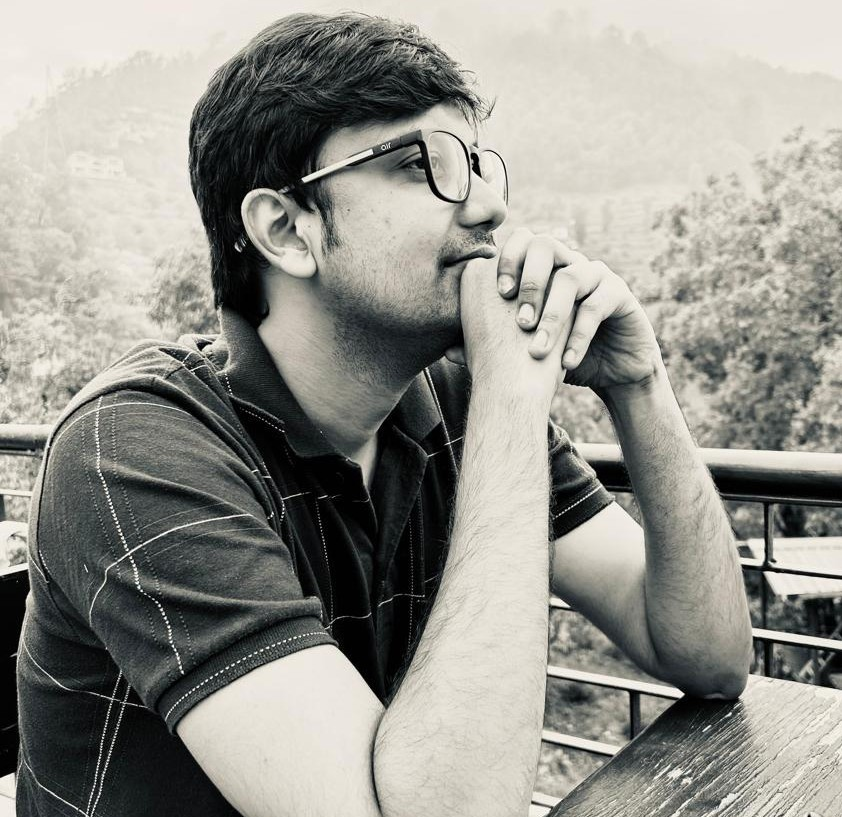
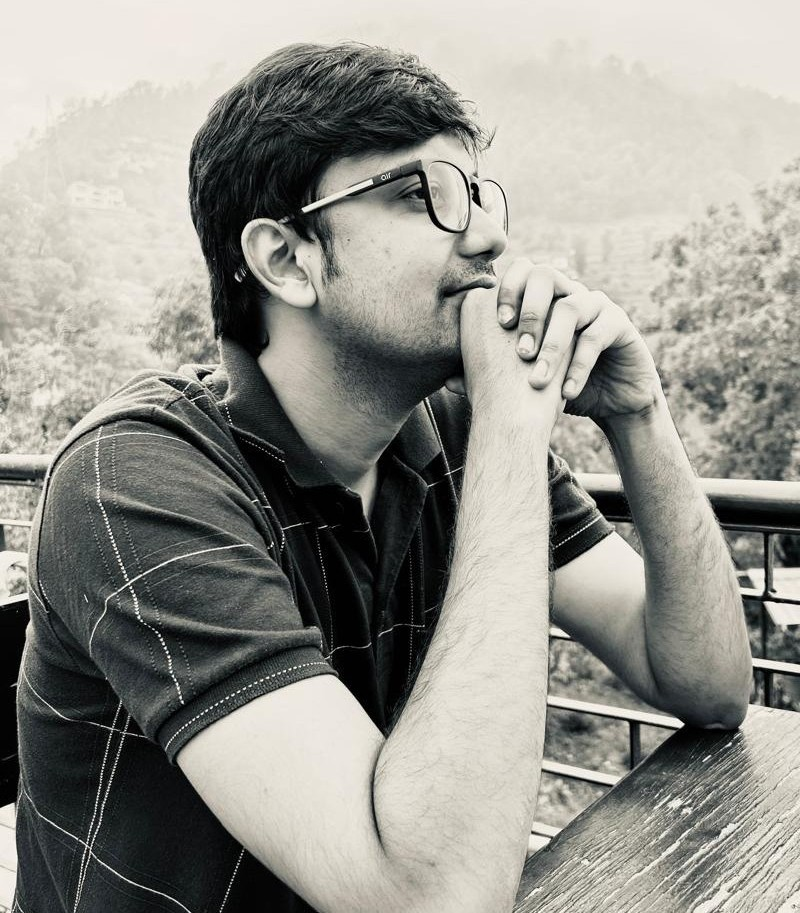
add

diff --git a/src/pages/People.jsx b/src/pages/People.jsx
@@ -57,11 +57,11 @@ const ArticleCard = ({ image, title, position, description }) => (
     <img
       src={image}
       alt={title}
-      className="w-full h-[450px] object-cover object-top transition-all duration-500 group-hover:scale-110"
+      className="w-full h-[450px] object-cover object-top transition-all duration-500 group-hover:scale-100 sm:group-hover:scale-110"
     />
 
     {/* Overlay */}
-    <div className="absolute inset-0 bg-gradient-to-t from-black/70 via-black/30 to-transparent transition-opacity duration-300 group-hover:bg-black/50"></div>
+    <div className="absolute inset-0 bg-gradient-to-t from-black/70 via-black/30 to-transparent transition-opacity duration-300 sm:group-hover:bg-black/50"></div>
 
     {/* Content */}
     <div className="absolute bottom-0 p-6 w-full text-white transition-all duration-300 ">
